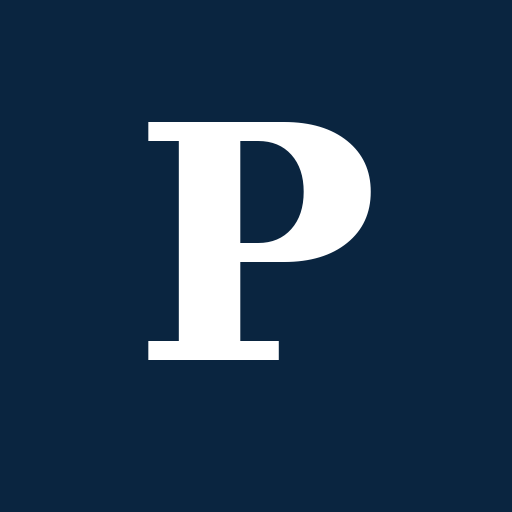
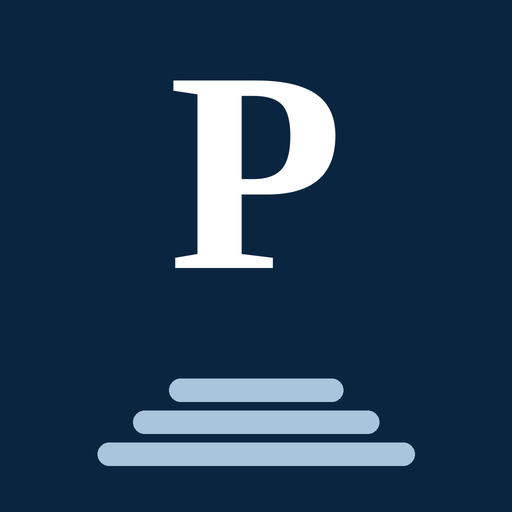
Polish the PepStep mark, splash, empty states, and offline note.
Adds a full icon set and branded splash, guidance on empty screens, a friendly offline banner, a visible not-medical-advice line, and safe-area padding for the notch and home indicator.

Changed region(s): [[0.1875, 0.1562, 0.8125, 0.9375]]

diff --git a/src/views/workouts.js b/src/views/workouts.js
@@ -107,7 +107,7 @@ function renderHome(state) {
         </div>`
               )
               .join('')
-          : `<p class="muted" style="margin:8px 0 0">Finished workouts will show up here.</p>`
+          : `<p class="empty-help">No finished workouts yet. Start one above, then tap Finish and it will show up here.</p>`
       }
     </section>
   `;
@@ -146,7 +146,7 @@ function renderBrowse(ui, catalog) {
         </div>`
               )
               .join('')
-          : `<p class="muted">No exercises match.</p>`
+          : `<p class="empty-help">No exercises match. Try another name, or pick a different body part.</p>`
       }
     </section>
   `;
@@ -164,7 +164,7 @@ function resolveLog(ex, catalog) {
 function renderLogger(state, catalog) {
   const w = state.activeWorkout;
   if (!w) {
-    return `${backBtn()}<section class="card"><p>No active workout.</p><button class="primary-btn" data-act="start-workout">Start workout</button></section>`;
+    return `${backBtn()}<section class="card"><p class="empty-help">No workout is in progress. Start one and add exercises as you go.</p><button class="primary-btn" data-act="start-workout">Start workout</button></section>`;
   }
 
   const blocks = (w.exercises || [])
@@ -228,7 +228,7 @@ function renderLogger(state, catalog) {
       <h2 style="margin:0;color:var(--navy)">${esc(w.name || 'Workout')}</h2>
       <button class="steel-btn" data-act="finish-workout">Finish</button>
     </div>
-    ${blocks || `<section class="card"><p class="muted">Add an exercise to start logging sets.</p></section>`}
+    ${blocks || `<section class="card"><p class="empty-help">This workout is empty. Add an exercise below, then log sets, reps, or a treadmill bout.</p></section>`}
     <button class="primary-btn" data-act="open-browse">Add exercise</button>
   `;
 }
@@ -263,7 +263,7 @@ function renderPlans(state) {
       </section>`
             )
             .join('')
-        : `<section class="card"><p class="muted">No saved plans yet.</p><button class="primary-btn" data-act="open-builder">Build a plan</button></section>`
+        : `<section class="card"><p class="empty-help">No saved plans yet. Build one that covers every body part, or let AI fill them in.</p><button class="primary-btn" data-act="open-builder">Build a plan</button></section>`
     }
   `;
 }

diff --git a/src/styles.css b/src/styles.css
@@ -9,7 +9,8 @@
   --line: rgba(10, 37, 64, 0.1);
   --shadow: 0 10px 30px rgba(10, 37, 64, 0.08);
   --radius: 16px;
-  --tab-h: calc(64px + env(safe-area-inset-bottom, 0px));
+  --safe-b: max(8px, env(safe-area-inset-bottom, 0px));
+  --tab-h: calc(56px + var(--safe-b));
   --header-h: 56px;
   --font: 'Manrope', system-ui, sans-serif;
   --display: 'Fraunces', Georgia, serif;
@@ -938,7 +939,7 @@ img {
   bottom: 0;
   z-index: 30;
   height: var(--tab-h);
-  padding: 8px calc(8px + env(safe-area-inset-right, 0px)) env(safe-area-inset-bottom, 8px)
+  padding: 6px calc(8px + env(safe-area-inset-right, 0px)) var(--safe-b)
     calc(8px + env(safe-area-inset-left, 0px));
   background: rgba(255, 255, 255, 0.94);
   backdrop-filter: blur(12px);
@@ -999,7 +1000,8 @@ img {
   overflow: auto;
   background: var(--white);
   border-radius: 20px 20px 0 0;
-  padding: 12px 16px calc(20px + env(safe-area-inset-bottom, 0px));
+  padding: 12px calc(16px + env(safe-area-inset-right, 0px)) calc(16px + var(--safe-b))
+    calc(16px + env(safe-area-inset-left, 0px));
 }
 
 .grab {
@@ -1258,6 +1260,67 @@ img {
 
 .legal-back {
   margin-top: 16px;
+}
+
+.boot-splash {
+  position: fixed;
+  inset: 0;
+  z-index: 80;
+  display: flex;
+  flex-direction: column;
+  align-items: center;
+  justify-content: center;
+  gap: 8px;
+  padding: calc(24px + env(safe-area-inset-top, 0px)) 24px calc(24px + env(safe-area-inset-bottom, 0px));
+  background: var(--navy);
+  color: var(--white);
+  text-align: center;
+}
+
+.boot-splash img {
+  width: 96px;
+  height: 96px;
+  border-radius: 22px;
+  margin-bottom: 8px;
+}
+
+.boot-splash strong {
+  font-family: var(--display);
+  font-size: 40px;
+  font-weight: 700;
+  letter-spacing: 0.01em;
+}
+
+.boot-splash span {
+  color: var(--light);
+  font-size: 14px;
+  font-weight: 600;
+}
+
+.offline-banner {
+  background: var(--navy);
+  color: var(--white);
+  border-radius: var(--radius);
+  padding: 12px 14px;
+  margin-bottom: 14px;
+  font-size: 13px;
+  font-weight: 600;
+  line-height: 1.45;
+}
+
+.fine-print {
+  margin: 16px 4px 0;
+  font-size: 12px;
+  line-height: 1.45;
+  color: var(--muted);
+  text-align: center;
+}
+
+.empty-help {
+  margin: 8px 0 0;
+  color: var(--muted);
+  font-size: 13px;
+  line-height: 1.45;
 }
 
 .back-row {

diff --git a/src/app.js b/src/app.js
@@ -11,6 +11,7 @@ import { renderHome, firstEmptyMeal } from './views/home.js';
 import { renderWorkouts, missingParts } from './views/workouts.js';
 import { renderMore, renderInstallTip } from './views/more.js';
 import { legalPageFromPath, legalTitle, renderLegalPage } from './views/legal.js';
+import { renderOfflineBanner } from './views/offline.js';
 import {
   initCloud,
   getSyncInfo,
@@ -336,6 +337,7 @@ function showLegal(page, { push = true } = {}) {
 }
 
 export function render() {
+  document.getElementById('boot-splash')?.remove();
   const root = document.getElementById('app');
   if (legalPage) {
     document.title = legalTitle(legalPage);
@@ -346,7 +348,7 @@ export function render() {
   root.innerHTML = `
     <div class="app-frame">
       ${header()}
-      <main class="view">${installBannerHtml()}${viewHtml()}</main>
+      <main class="view">${renderOfflineBanner()}${installBannerHtml()}${viewHtml()}</main>
       ${tabbar()}
       ${renderSheet()}
       <div id="toast" class="toast" ${ui.toast ? '' : 'hidden'}>${esc(ui.toast)}</div>
@@ -1046,6 +1048,8 @@ export function init() {
     legalPage = legalPageFromPath(window.location.pathname);
     render();
   });
+  window.addEventListener('online', () => render());
+  window.addEventListener('offline', () => render());
   render();
   initCloud({
     getState: () => state,

diff --git a/index.html b/index.html
@@ -17,6 +17,7 @@
     <meta name="apple-mobile-web-app-title" content="PepStep" />
     <meta name="apple-mobile-web-app-status-bar-style" content="black-translucent" />
     <link rel="icon" href="/favicon.svg" type="image/svg+xml" />
+    <link rel="icon" href="/favicon-32.png" type="image/png" sizes="32x32" />
     <link rel="apple-touch-icon" href="/apple-touch-icon.png" sizes="180x180" />
     <link rel="manifest" href="/manifest.webmanifest" />
     <link rel="preconnect" href="https://fonts.googleapis.com" />
@@ -28,6 +29,11 @@
     <title>PepStep — Put a Pep in Your Step</title>
   </head>
   <body>
+    <div id="boot-splash" class="boot-splash" role="status" aria-label="PepStep is loading">
+      <img src="/icon-192.png" alt="" width="96" height="96" />
+      <strong>PepStep</strong>
+      <span>Longevity is Movement</span>
+    </div>
     <div id="app"></div>
     <script type="module" src="/src/main.js"></script>
   </body>

diff --git a/src/views/home.js b/src/views/home.js
@@ -92,7 +92,7 @@ function mealSnapshot(day) {
   const logged = MEALS.filter((meal) => (day.meals[meal.id] || []).length > 0);
   if (!logged.length) {
     return `
-      <p class="empty-meal">Nothing logged yet</p>
+      <p class="empty-meal">Nothing logged yet. Add a meal when you are ready.</p>
       <button class="add-food" data-act="home-log-food">Log food in Diary</button>
     `;
   }
@@ -233,5 +233,6 @@ export function renderHome(state) {
 
     ${workoutCard(state, today)}
     ${weekCard(state, today)}
+    <p class="fine-print">Not medical advice. PepStep is a log for meals and movement, not a diagnosis or treatment.</p>
   `;
 }

diff --git a/src/views/legal.js b/src/views/legal.js
@@ -1,4 +1,5 @@
 import { esc } from '../utils.js';
+import { renderOfflineBanner } from './offline.js';
 
 /** Placeholder until Derek replaces it before App Store submission. */
 export const SUPPORT_EMAIL = 'derektouhsant@gmail.com';
@@ -61,6 +62,7 @@ function shell(page, title, body) {
   return `
     <div class="legal-shell">
       <div class="legal-wrap">
+        ${renderOfflineBanner()}
         <header class="legal-brand">
           <div class="brand-name">PepStep</div>
           <div class="brand-tag">Longevity is Movement</div>

diff --git a/src/views/offline.js b/src/views/offline.js
@@ -1,0 +1,6 @@
+export function renderOfflineBanner() {
+  if (typeof navigator !== 'undefined' && navigator.onLine === false) {
+    return `<div class="offline-banner" role="status">You're offline. PepStep still works with what's saved on this device. We'll sync again when you're back online.</div>`;
+  }
+  return '';
+}

diff --git a/src/views/diary.js b/src/views/diary.js
@@ -78,7 +78,7 @@ function mealCard(meal, items) {
       </div>`
         )
         .join('')
-    : `<p class="empty-meal">Nothing logged yet</p>`;
+    : `<p class="empty-meal">Nothing logged yet. Add a food to track this meal.</p>`;
 
   return `
     <section class="card">

diff --git a/scripts/render-brand-assets.py b/scripts/render-brand-assets.py
@@ -1,0 +1,94 @@
+#!/usr/bin/env python3
+"""Draw the PepStep mark and write the web and store icon files.
+
+Requires Pillow. Run from the repo root:
+  python3 scripts/render-brand-assets.py
+"""
+
+from pathlib import Path
+
+from PIL import Image, ImageDraw, ImageFont
+
+ROOT = Path(__file__).resolve().parents[1]
+NAVY = (10, 37, 64, 255)
+WHITE = (255, 255, 255, 255)
+LIGHT = (168, 197, 219, 255)
+SERIF = "/usr/share/fonts/truetype/liberation/LiberationSerif-Bold.ttf"
+SANS = "/usr/share/fonts/truetype/liberation/LiberationSans-Bold.ttf"
+SANS_REG = "/usr/share/fonts/truetype/liberation/LiberationSans-Regular.ttf"
+
+
+def draw_mark(size):
+    """Full-bleed navy square with a white P and a light-blue step."""
+    image = Image.new("RGBA", (size, size), NAVY)
+    draw = ImageDraw.Draw(image)
+    font = ImageFont.truetype(SERIF, int(size * 0.56))
+    text = "P"
+    box = draw.textbbox((0, 0), text, font=font)
+    text_w = box[2] - box[0]
+    text_h = box[3] - box[1]
+    x = (size - text_w) / 2 - box[0]
+    y = size * 0.34 - text_h / 2 - box[1]
+    draw.text((x, y), text, font=font, fill=WHITE)
+
+    step_h = max(6, int(size * 0.045))
+    gap = max(4, int(size * 0.018))
+    base_y = int(size * 0.74)
+    widths = (0.34, 0.48, 0.62)
+    for i, ratio in enumerate(widths):
+        w = int(size * ratio)
+        left = (size - w) / 2
+        top = base_y + i * (step_h + gap)
+        radius = max(3, step_h // 2)
+        draw.rounded_rectangle((left, top, left + w, top + step_h), radius=radius, fill=LIGHT)
+    return image
+
+
+def draw_splash(size=2732):
+    image = Image.new("RGBA", (size, size), NAVY)
+    mark = draw_mark(int(size * 0.28))
+    mx = (size - mark.width) // 2
+    my = int(size * 0.30)
+    # Square mark sits on the navy field; mask it to a rounded rect.
+    radius = int(mark.width * 0.22)
+    mask = Image.new("L", mark.size, 0)
+    ImageDraw.Draw(mask).rounded_rectangle((0, 0, mark.width, mark.height), radius=radius, fill=255)
+    image.paste(mark, (mx, my), mask)
+
+    draw = ImageDraw.Draw(image)
+    title_font = ImageFont.truetype(SERIF, int(size * 0.07))
+    tag_font = ImageFont.truetype(SANS, int(size * 0.028))
+    line_font = ImageFont.truetype(SANS_REG, int(size * 0.022))
+    title = "PepStep"
+    tag = "Longevity is Movement"
+    line = "Put a Pep in Your Step"
+    title_box = draw.textbbox((0, 0), title, font=title_font)
+    tag_box = draw.textbbox((0, 0), tag, font=tag_font)
+    line_box = draw.textbbox((0, 0), line, font=line_font)
+    title_y = my + mark.height + int(size * 0.05)
+    draw.text(((size - (title_box[2] - title_box[0])) / 2, title_y), title, font=title_font, fill=WHITE)
+    tag_y = title_y + (title_box[3] - title_box[1]) + int(size * 0.02)
+    draw.text(((size - (tag_box[2] - tag_box[0])) / 2, tag_y), tag, font=tag_font, fill=LIGHT)
+    line_y = tag_y + (tag_box[3] - tag_box[1]) + int(size * 0.018)
+    draw.text(((size - (line_box[2] - line_box[0])) / 2, line_y), line, font=line_font, fill=WHITE)
+    return image
+
+
+def save_png(image, path):
+    path.parent.mkdir(parents=True, exist_ok=True)
+    image.convert("RGB").save(path, "PNG")
+    print(path)
+
+
+def main():
+    icon = draw_mark(1024)
+    save_png(icon, ROOT / "assets" / "icon.png")
+    save_png(icon.resize((512, 512), Image.Resampling.LANCZOS), ROOT / "public" / "icon-512.png")
+    save_png(icon.resize((192, 192), Image.Resampling.LANCZOS), ROOT / "public" / "icon-192.png")
+    save_png(icon.resize((180, 180), Image.Resampling.LANCZOS), ROOT / "public" / "apple-touch-icon.png")
+    save_png(icon.resize((32, 32), Image.Resampling.LANCZOS), ROOT / "public" / "favicon-32.png")
+    save_png(draw_splash(2732), ROOT / "assets" / "splash.png")
+
+
+if __name__ == "__main__":
+    main()

diff --git a/README.md b/README.md
@@ -110,7 +110,7 @@ Magic links are one-time: each browser/profile needs its own email. Check spam i
 
 ## iPhone: Add to Home Screen
 
-PepStep is a mobile PWA (manifest, navy `#0A2540` theme color, 180px apple-touch-icon). It is built for Safari’s viewport, including safe-area padding above the home indicator.
+PepStep is a mobile PWA (manifest, navy `#0A2540` theme color, app icons, and a branded splash). It is built for Safari’s viewport, including safe-area padding for the notch and the home indicator. A short note on Home says the log is not medical advice. If the device is offline, a banner explains that saved logs still work and will sync later.
 
 1. Open the deployed site in **Safari** (not Chrome, and not an in-app browser).
 2. Tap the **Share** button.
